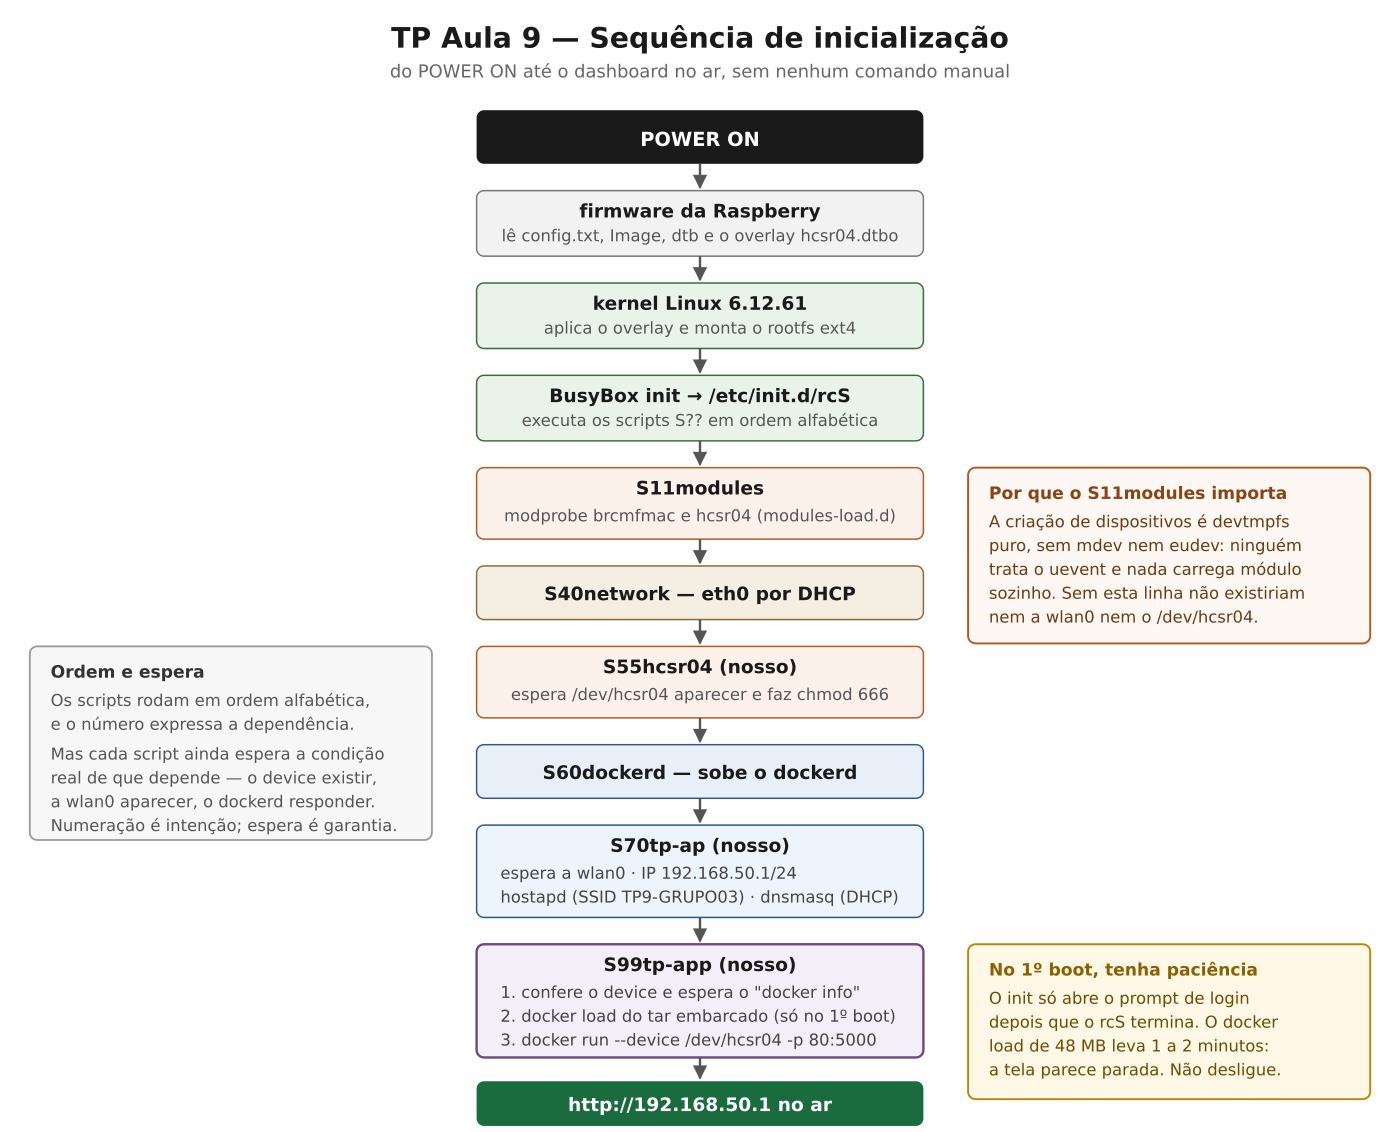
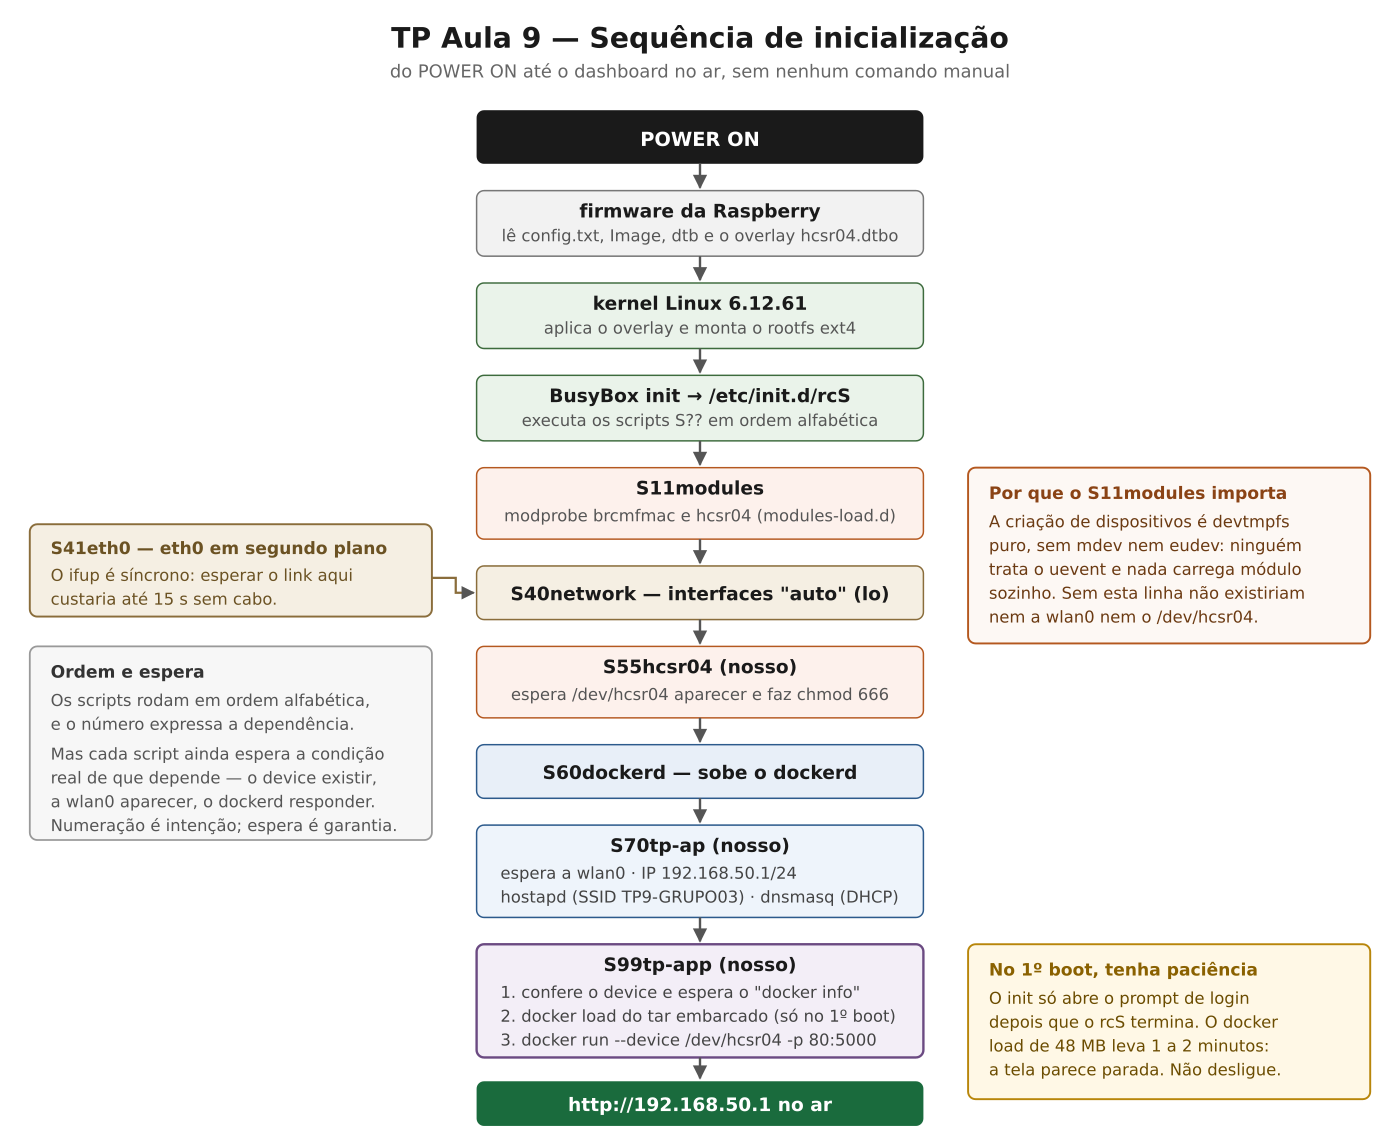
perf: tira a eth0 do caminho crítico e afina as esperas do init
Com "auto eth0", o S40network segura o boot inteiro até o link subir e o
DHCP responder, até 15 s do wait-delay quando não há cabo. No TP9, o
acesso normal é pelo Wi-Fi da própria placa, então a eth0 saiu do "auto"
e sobe pelo S41eth0, em segundo plano. O wait-delay continua valendo,
só não atrasa mais o resto.

Changed region(s): [[0.0, 0.4638, 0.3379, 0.5565], [0.3686, 0.4947, 0.6143, 0.5565]]

diff --git a/docs/arquitetura.md b/docs/arquitetura.md
@@ -63,7 +63,8 @@ numeração expressa a dependência:
 | Script | De onde vem | O que faz |
 |---|---|---|
 | `S11modules` | Buildroot | `modprobe` do que estiver em `/etc/modules-load.d/` — aqui, `brcmfmac` e `hcsr04` |
-| `S40network` | Buildroot | sobe a `eth0` por DHCP |
+| `S40network` | Buildroot | sobe a `lo` |
+| `S41eth0` | nosso | dispara o DHCP da `eth0` **em segundo plano** |
 | `S55hcsr04` | nosso | espera o `/dev/hcsr04` aparecer e faz `chmod 666` |
 | `S60dockerd` | pacote `docker-engine` | sobe o `dockerd` |
 | `S70tp-ap` | nosso | `wlan0`, IP estático, `hostapd`, `dnsmasq` |
@@ -74,6 +75,12 @@ numeração sugerida pelo próprio guia faz o contrário — `S60dockerd` antes 
 funcionam, e mantivemos a numeração do guia: a publicação de porta do Docker é uma regra de
 `iptables` que vale para interfaces que apareçam depois, e o container só sobe no `S99`, quando as
 duas camadas já existem.
+
+**A `eth0` saiu do caminho crítico.** O `ifup` é síncrono: com `auto eth0` no
+`/etc/network/interfaces`, o boot inteiro para até o link subir e o DHCP responder — até 15 s
+quando não há cabo. Como o acesso normal é pelo Wi-Fi da própria placa, a interface passou a subir
+em segundo plano, pelo `S41eth0`. A espera pelo link continua existindo dentro daquele `ifup`; ela
+só não atrasa mais o resto.
 
 **Os scripts não confiam só na ordem.** Cada um espera a condição real de que depende — o device
 existir, o `dockerd` responder, a `wlan0` aparecer — com prazo e mensagem de erro que diz onde

diff --git a/docs/docker-web.md b/docs/docker-web.md
@@ -130,8 +130,9 @@ que acabou de ligar, o pedido DHCP pode sair antes de o link existir, e a interf
 alguém intervir — defeito que aparece só em alguns boots, o que o torna difícil de diagnosticar. O
 `scripts/04-build-image.sh` confere essa diretiva dentro da imagem.
 
-A `eth0` continua por DHCP e serve para administrar a placa; o dashboard é servido pela `wlan0`,
-descrita em [wifi-ap.md](wifi-ap.md).
+A `eth0` continua por DHCP e serve para administrar a placa, mas sobe **em segundo plano**, pelo
+`S41eth0`: o `ifup` é síncrono e, sem cabo, seguraria o boot pelos 15 s do `wait-delay`. O
+dashboard é servido pela `wlan0`, descrita em [wifi-ap.md](wifi-ap.md).
 
 ## Inicialização automática
 
